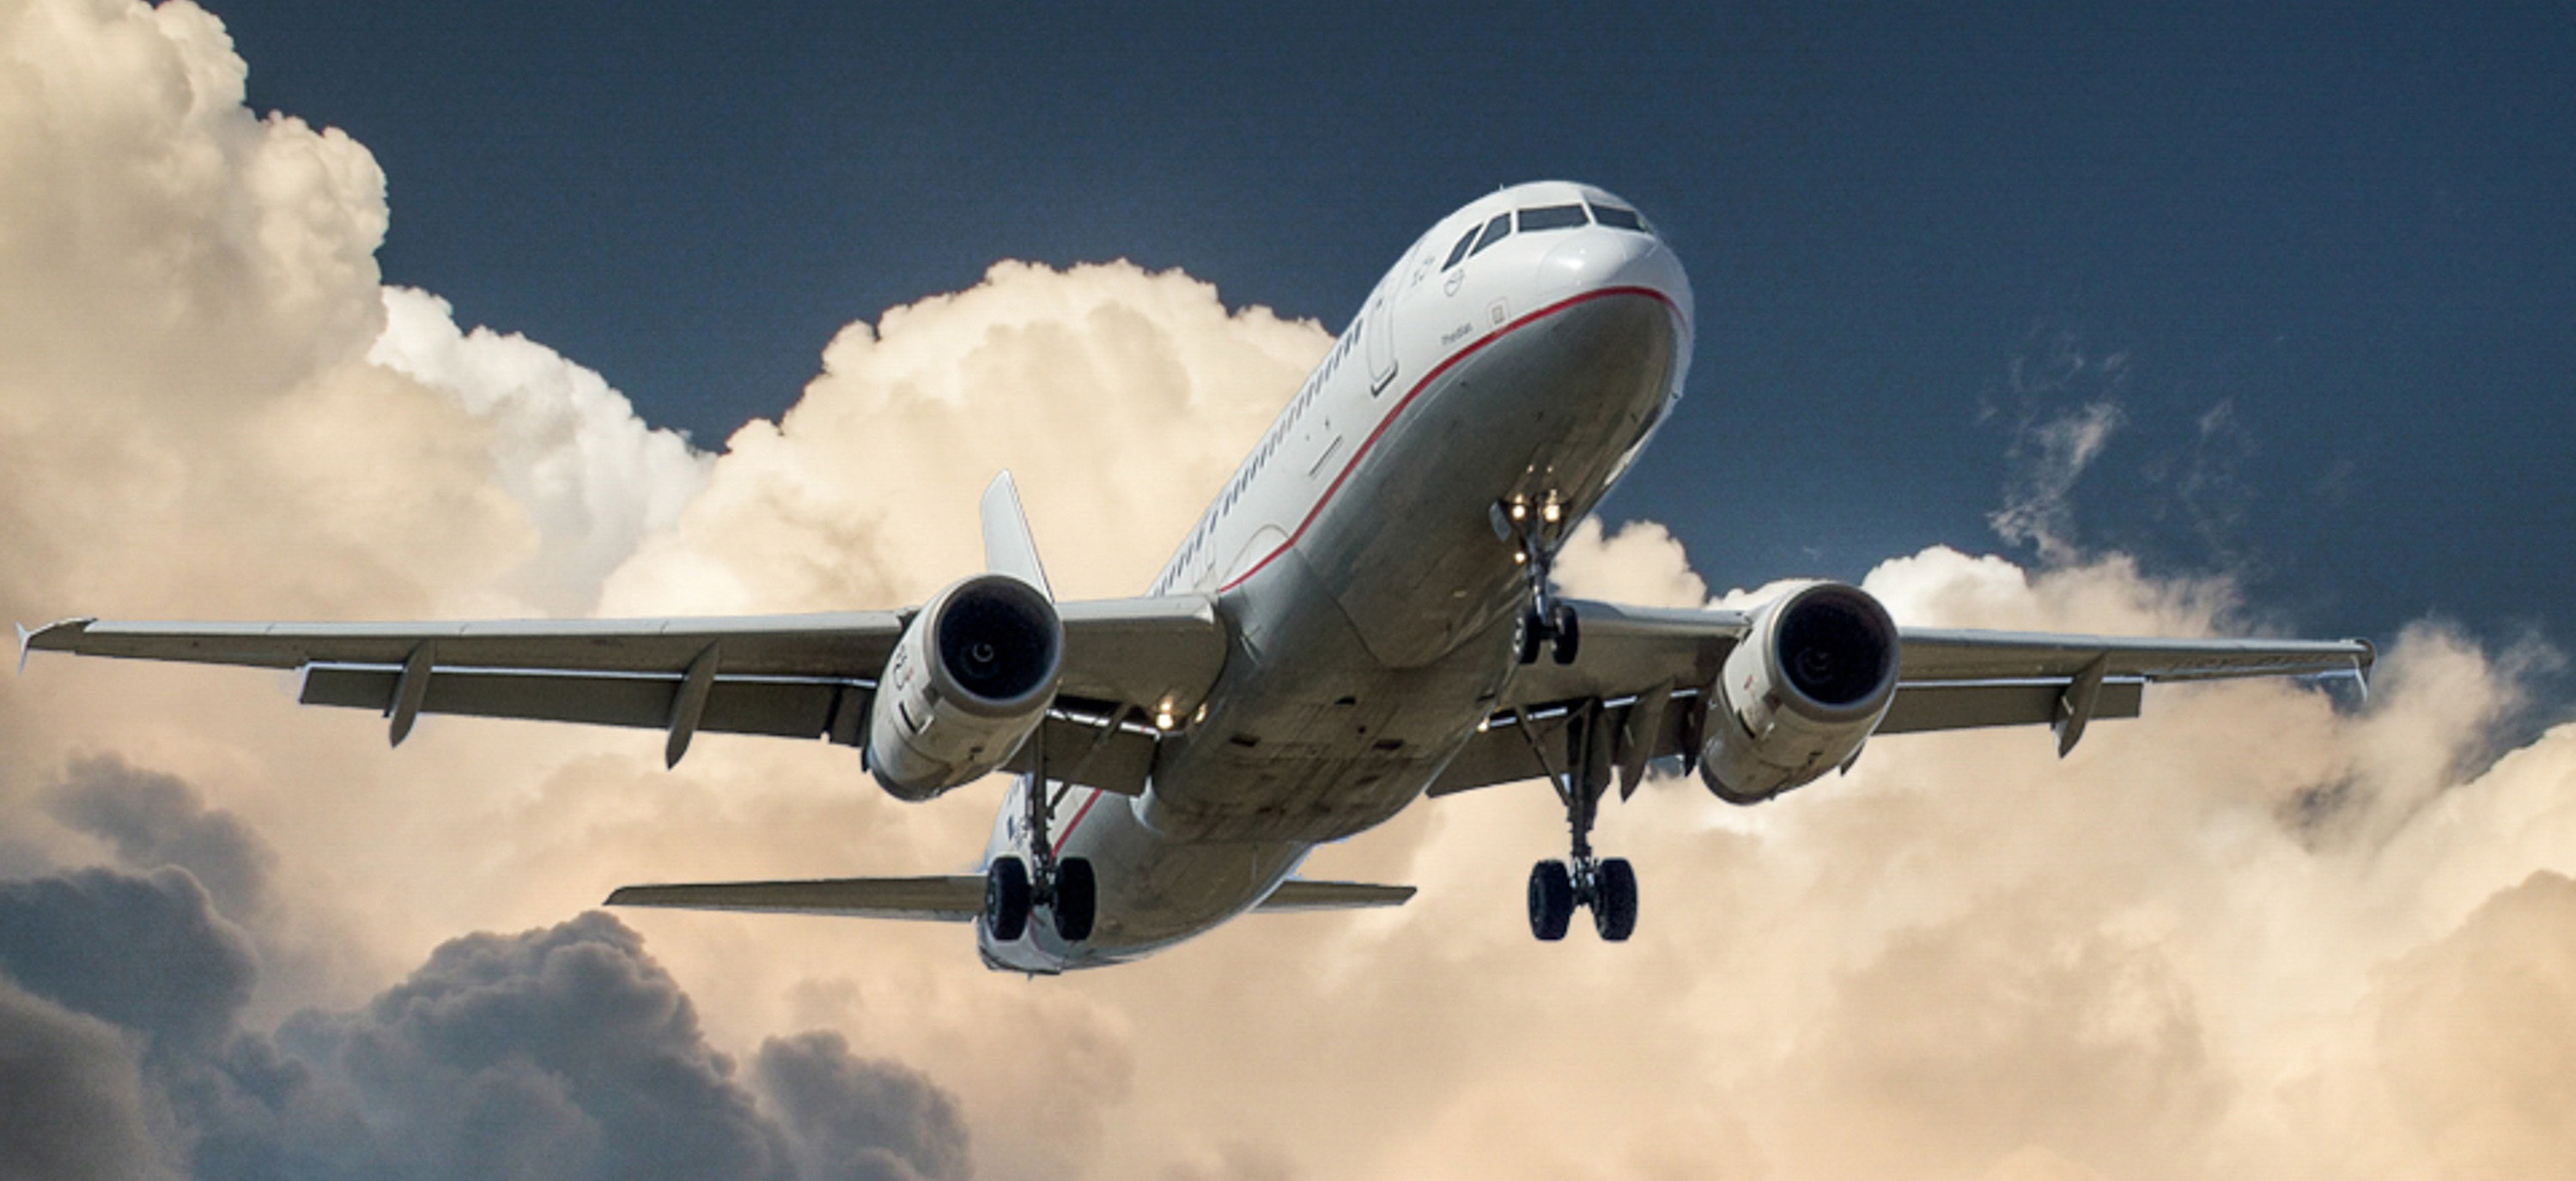
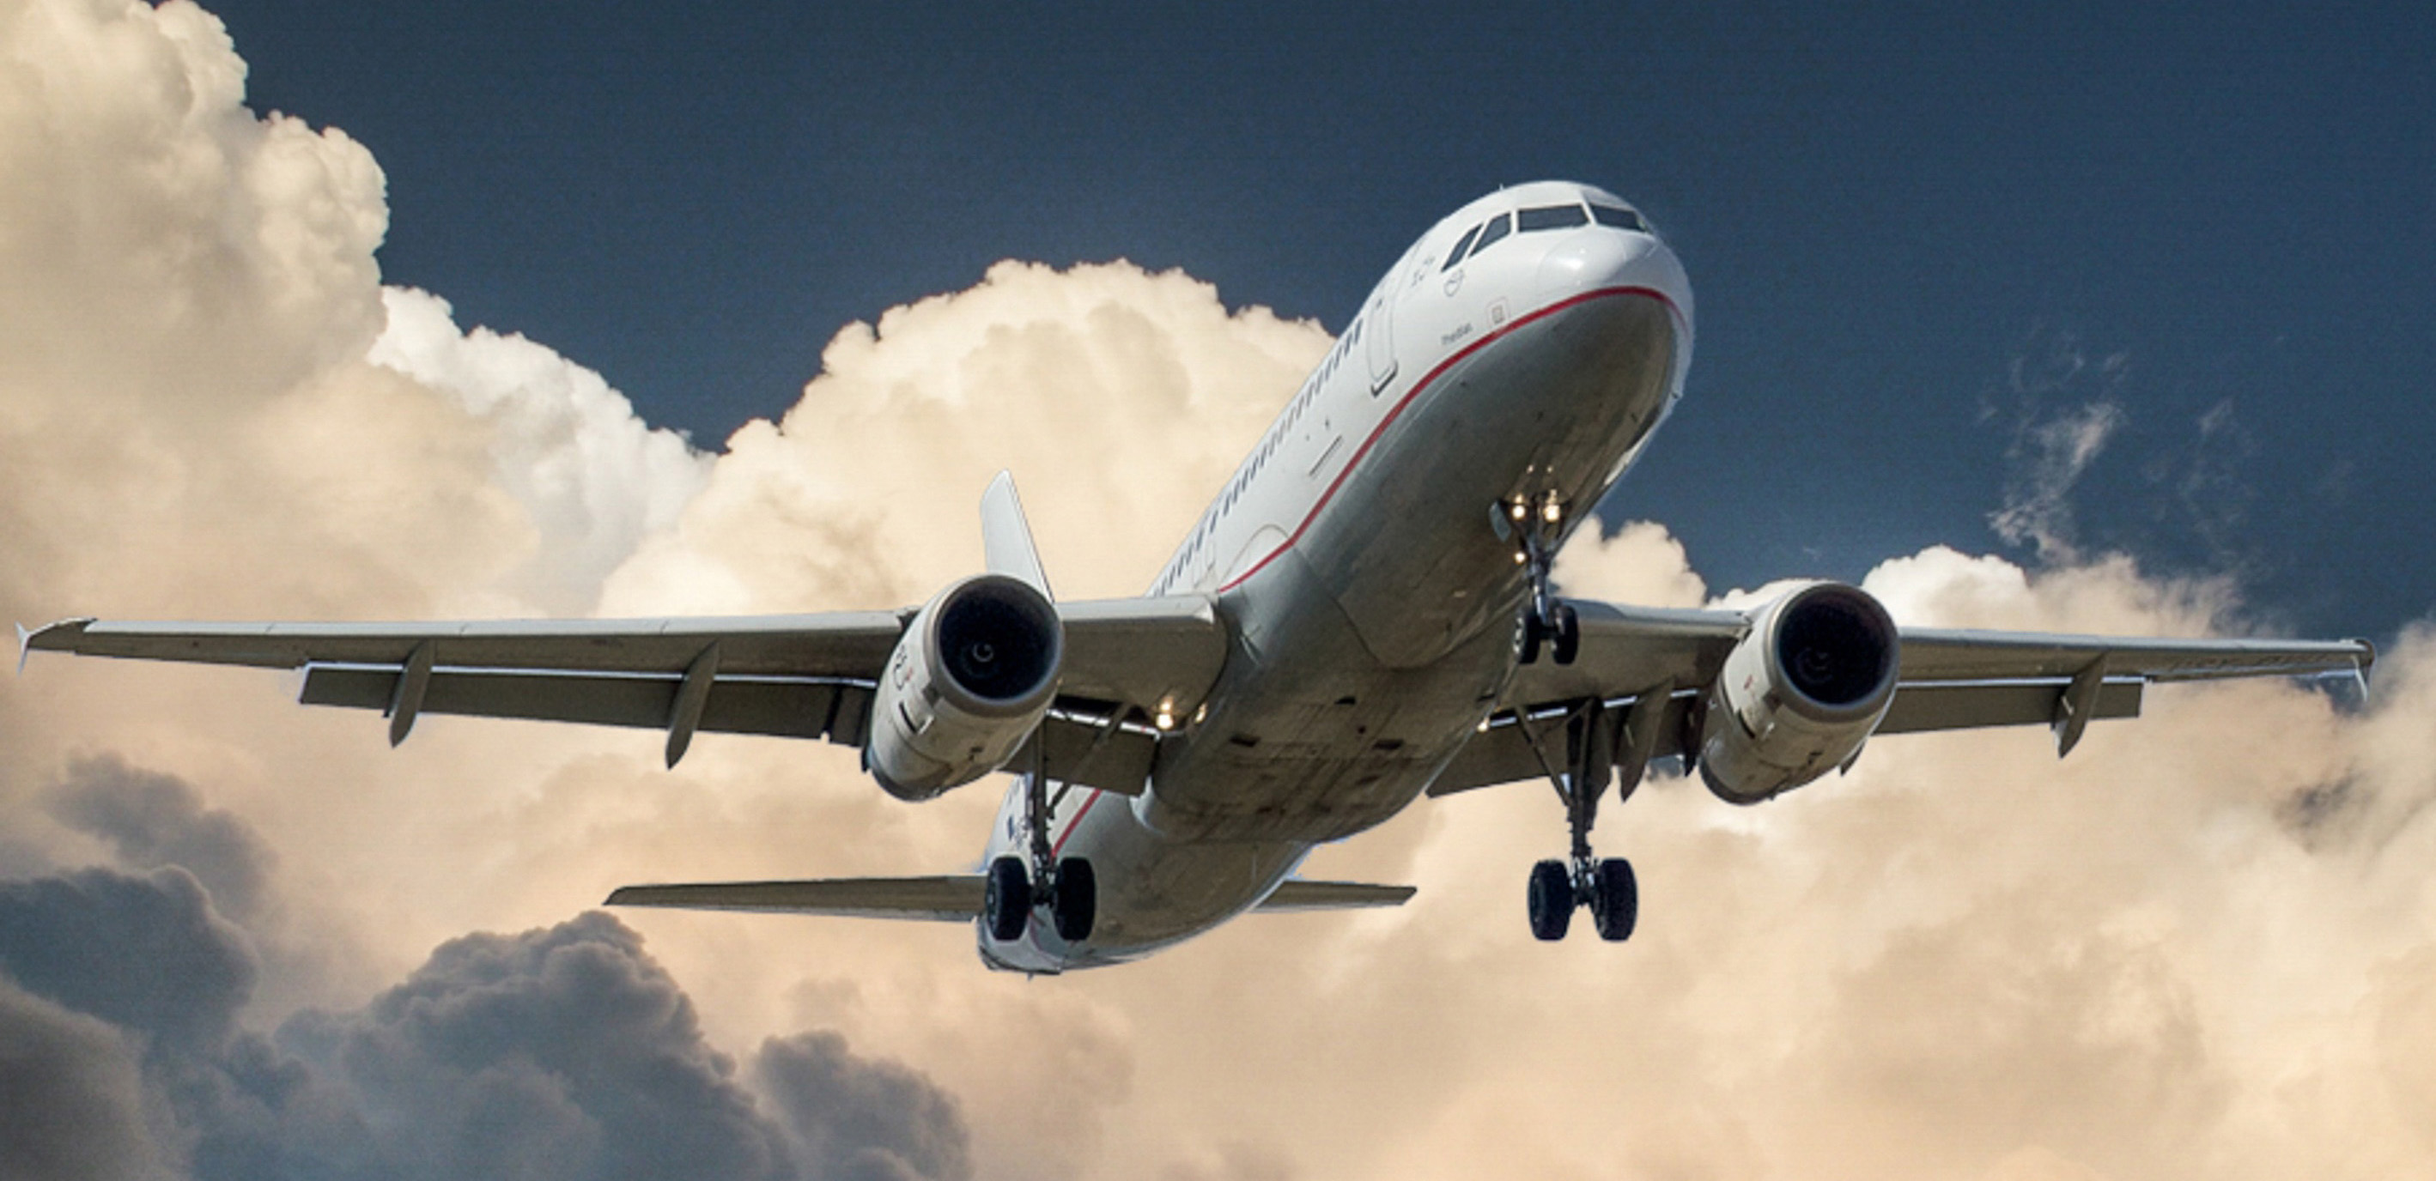
coordinates still hardcoded

diff --git a/react-ui/src/GoogleMapsChange.js b/react-ui/src/GoogleMapsChange.js
@@ -1,56 +1,65 @@
- import React from 'react';
+import React, { Component } from 'react';
+import './App.css';
 
-class GoogleMapsChange extends React.Component {
+class App extends Component {
 
   constructor() {
     super();
 
-    this.markers = [];
+    this.state = {
+      locations: [
+        { name: 'Houston', lat: 65, lng: 23 },
+        { name: 'Dallas', lat: 45, lng: 45 },
+        { name: 'Zimbabwe', lat: 100, lng: -2 }
+      ],
+      selectedLat: undefined,
+      selectedLng: undefined
+    };
   }
 
-  componentDidMount() {
-    this.googleMap = new window.google.maps.Map(this.map, {
-      center: { lat: 32.7767, lng: -96.7970 },
-      zoom: 5
+  handleClick(loc) {
+    this.setState({
+      selectedLat: loc.lat,
+      selectedLng: loc.lng
     });
   }
 
-  handleClick(lat, lng) {
-    var marker = new window.google.maps.Marker({
-      position: { lat: lat, lng: lng },
-      map: this.googleMap,
-      title: 'Hover over the marker to see this text!'
-    });
-    this.markers.push(marker);
-  }
+  handleKeyUp(evt) {
+    console.log(evt.keyCode);
+    if (evt.keyCode === 13) {
+      console.log(evt.target.value);
 
-  handleClearMarkers() {
-    for (let i = 0; i < this.markers.length; i++) {
-      this.markers[i].setMap(null);
+      var foundThing = this.state.locations.find((loc) => evt.target.value === loc.name);
+      if (foundThing !== undefined) {
+        //place a marker
+        //foundThing.lat and foundThing.lng
+      }
     }
-    this.markers = [];
-  }
-
-  handleCenterpointClick(lat, lng) {
-    this.googleMap.setCenter({ lat: lat, lng: lng });
   }
 
   render() {
+
+    const items = this.state.locations.map((loc, i) => {
+      return <li key={loc.name + i} onClick={() => this.handleClick(loc)}>{loc.name}</li>
+    });
+
+
     return (
-      <div className="google-maps-change">
+      <div className="App">
 
-        <div ref={(map) => { this.map = map; }} style={{width: '50%', height: '400px', float: 'left'}}></div>
+        <input onKeyUp={(evt) => this.handleKeyUp(evt)} />
 
-        <div style={{width: '40%', float: 'left'}}>
-          <button onClick={() => this.handleClearMarkers()}>clear markers</button>
+        <div>Selected lat: {this.state.selectedLat}</div>
+        <div>Selected lng: {this.state.selectedLng}</div>
+
+        <ul>
+          {items}
+        </ul>
 
 
-        </div>
       </div>
     );
   }
-
-
 }
 
-export default GoogleMapsChange;
+export default App;

diff --git a/react-ui/src/App.js b/react-ui/src/App.js
@@ -45,6 +45,7 @@ class App extends Component {
         if (stadium.state.indexOf(this.state.inputValue) > -1) {
           filteredList.push(stadium);
         }
+
       }
 
       this.setState({
@@ -66,9 +67,13 @@ class App extends Component {
             <td className="team-name">{stadium.team}</td>
             <td className="opened-date">{stadium.opened}</td>
             <td className="capass">{stadium.seatingCapacity}</td>
+            <td className="lat">{stadium.latitude}</td>
+            <td className="lng">{stadium.longitude}</td>
         </tr>
       });
+        console.log('stuff?',list);
     }
+
 
     return (
       <div className="App">
@@ -90,10 +95,11 @@ class App extends Component {
           </thead>
           <tbody>
             {list}
+            {GoogleMapsChange}
           </tbody>
         </table>
-        <div className="Map">
-          <GoogleMapsChange />
+        <div className="google-maps-change">
+          <GoogleMapsChange   />
         </div>
         </div>
       </div>

diff --git a/react-ui/public/history.css b/react-ui/public/history.css
@@ -52,7 +52,7 @@ nav a {
     background-image: url('history.jpg');
     background-size: cover;
     margin: 0 auto;
-    height: 600px;
+    height: 400px;
     font-family: sans-serif;
     padding-top: 200px;
     position: relative;

diff --git a/server/server.js b/server/server.js
@@ -40,9 +40,7 @@ console.log(__dirname);
 
 });
 
-// app.get('*', function(request, response) {
-//   response.sendfile('/App.js');
-// });
+
 
 app.listen(PORT, function () {
   console.log(`Listening on port ${PORT}`);

diff --git a/react-ui/public/travel.css b/react-ui/public/travel.css
@@ -55,7 +55,7 @@ nav a {
   background-image: url('plane.jpeg');
   background-size: cover;
   margin: 0 auto;
-  height: 600px;
+  height: 500px;
   font-family: sans-serif;
   padding-top: 200px;
   position: relative;
